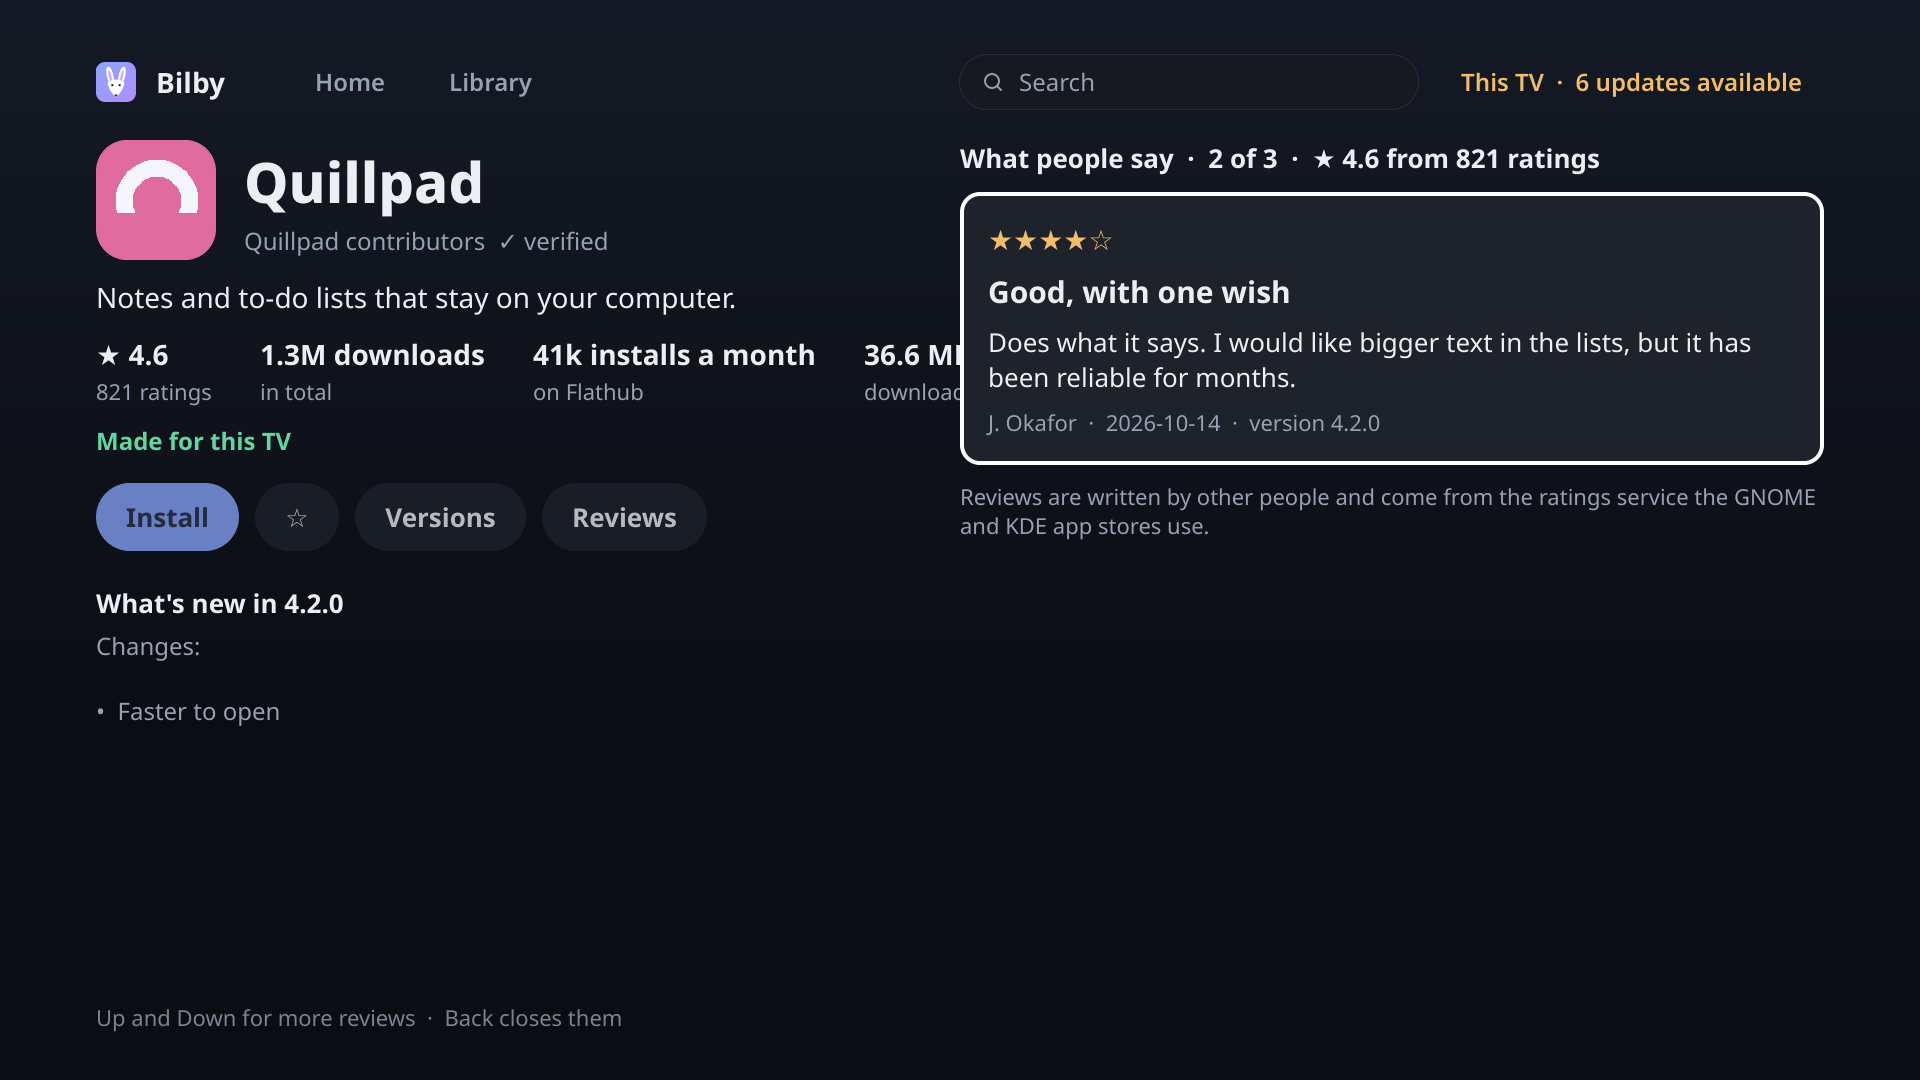
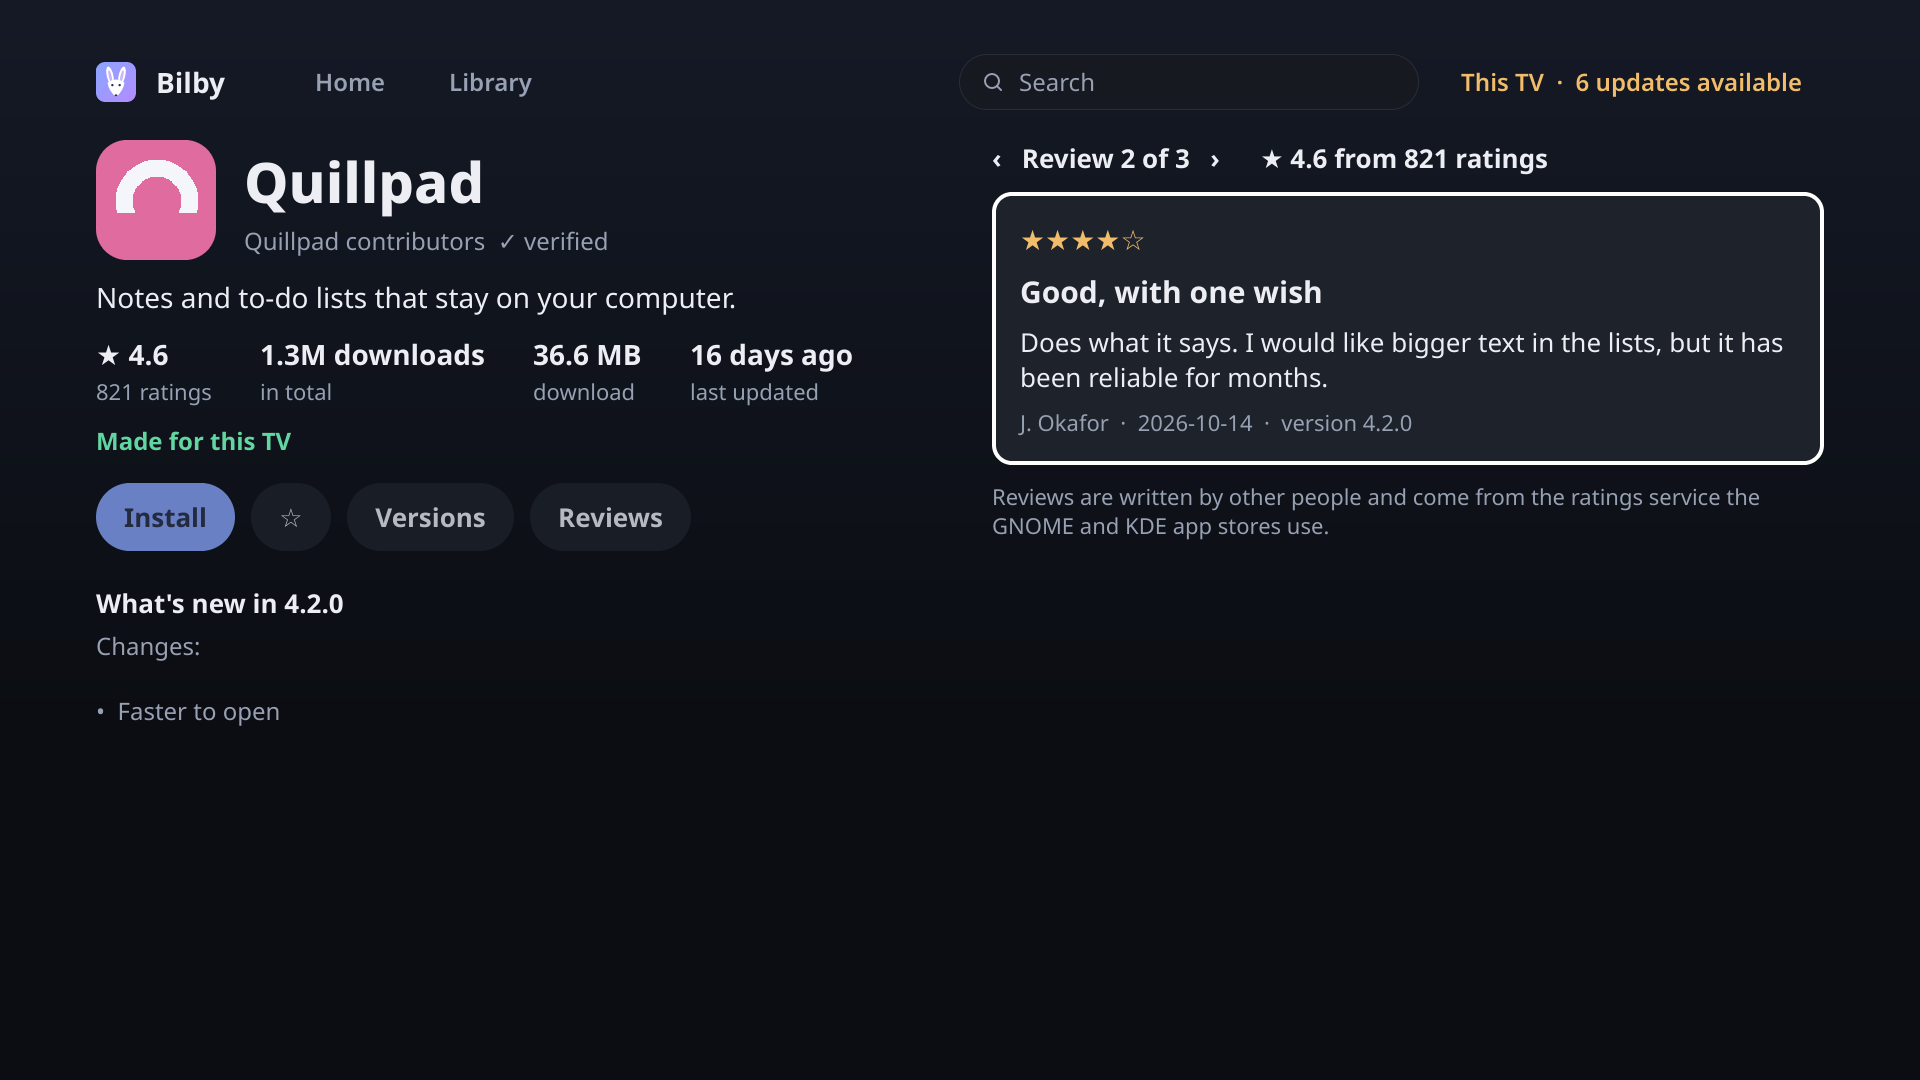
Drop the TV's legend of remote buttons
A screen that needs a legend is not clear enough. The line of hints in the corner
is gone. What it explained is now part of the screens: versions and reviews show
an arrow on each side that has more, and removing an app asks for the second OK
in the line above the buttons.

Claude-Session: https://claude.ai/code/session_01HGFb9uxaEnenJKv7mdFmn7

diff --git a/docs/DESIGN.md b/docs/DESIGN.md
@@ -750,8 +750,10 @@ Versions, Reviews (where there are any) and, for an app in the library, Remove, 
 asks for a second OK. An installed app
 that cannot be opened from here says "Install again", not "Install". The This TV page
 carries the settings that matter on a TV (ratings and reviews, checking for updates at
-start, test versions) as rows the remote switches with OK. Every screen says in its
-bottom corner what the remote does there. Reviews open one at a time, large, with
+start, test versions) as rows the remote switches with OK. There is no legend of
+remote buttons: arrows, OK and Back do what they do on every TV, things that move
+sideways show an arrow on the side that has more, and a confirmation is spelled out
+in the line above the buttons. Reviews open one at a time, large, with
 Up and Down to move between them. Versions lists the files of one release; Left and
 Right move to older and newer releases. Still missing on TV: entering a GitHub
 token, which needs signing in with a code rather than typing one.
